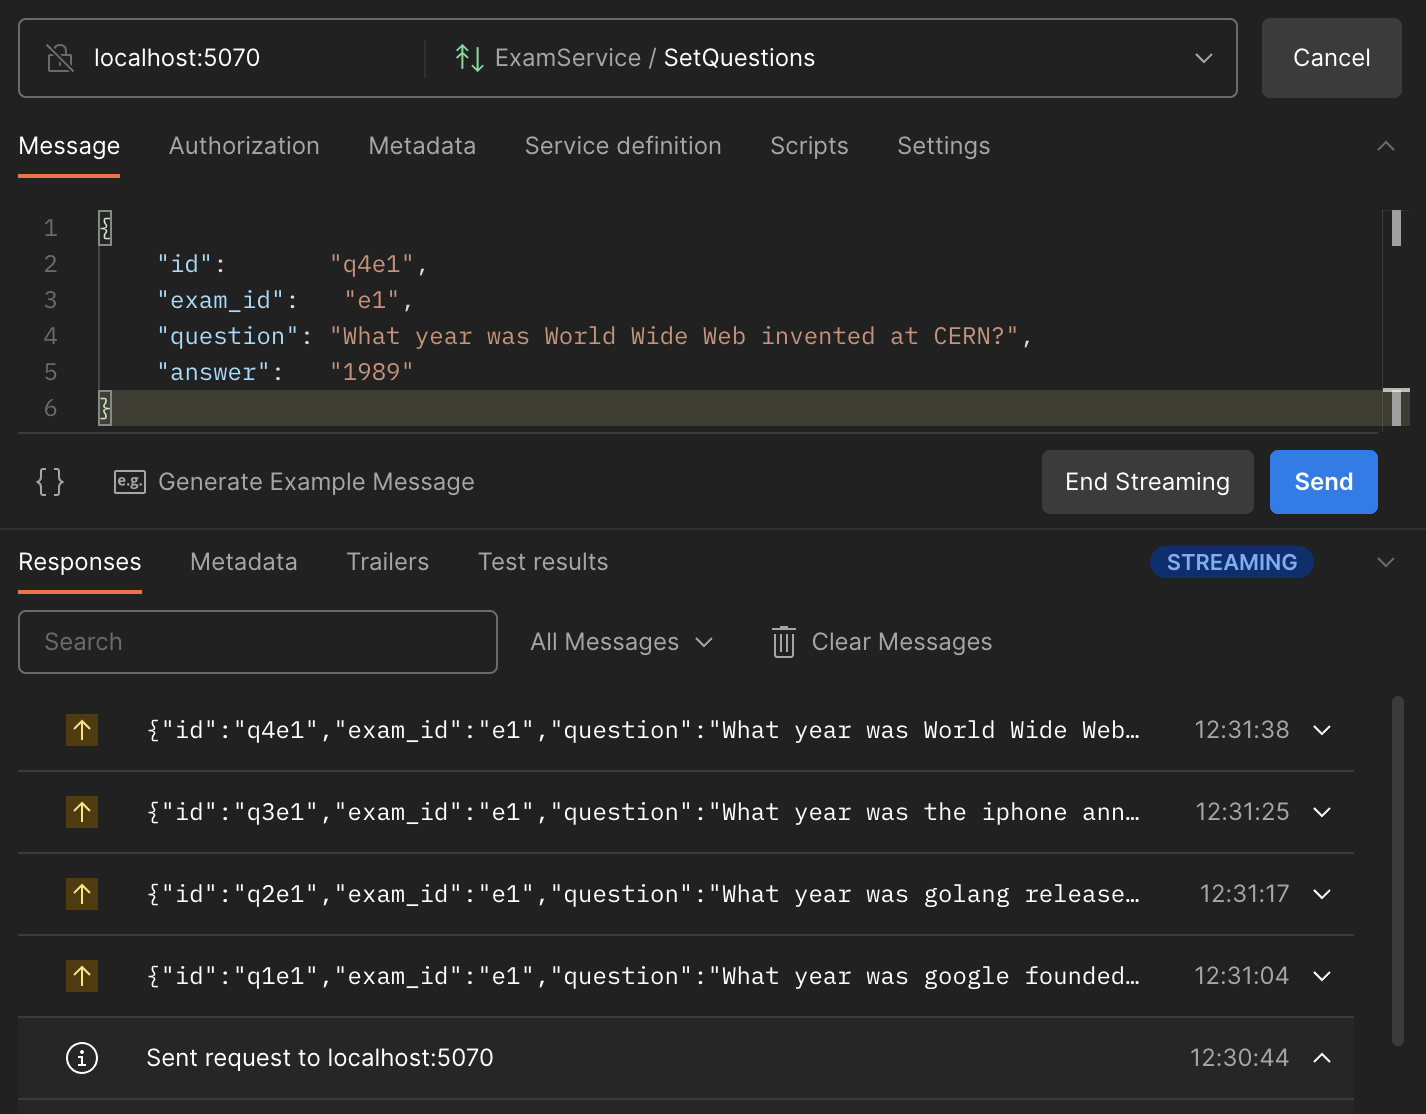
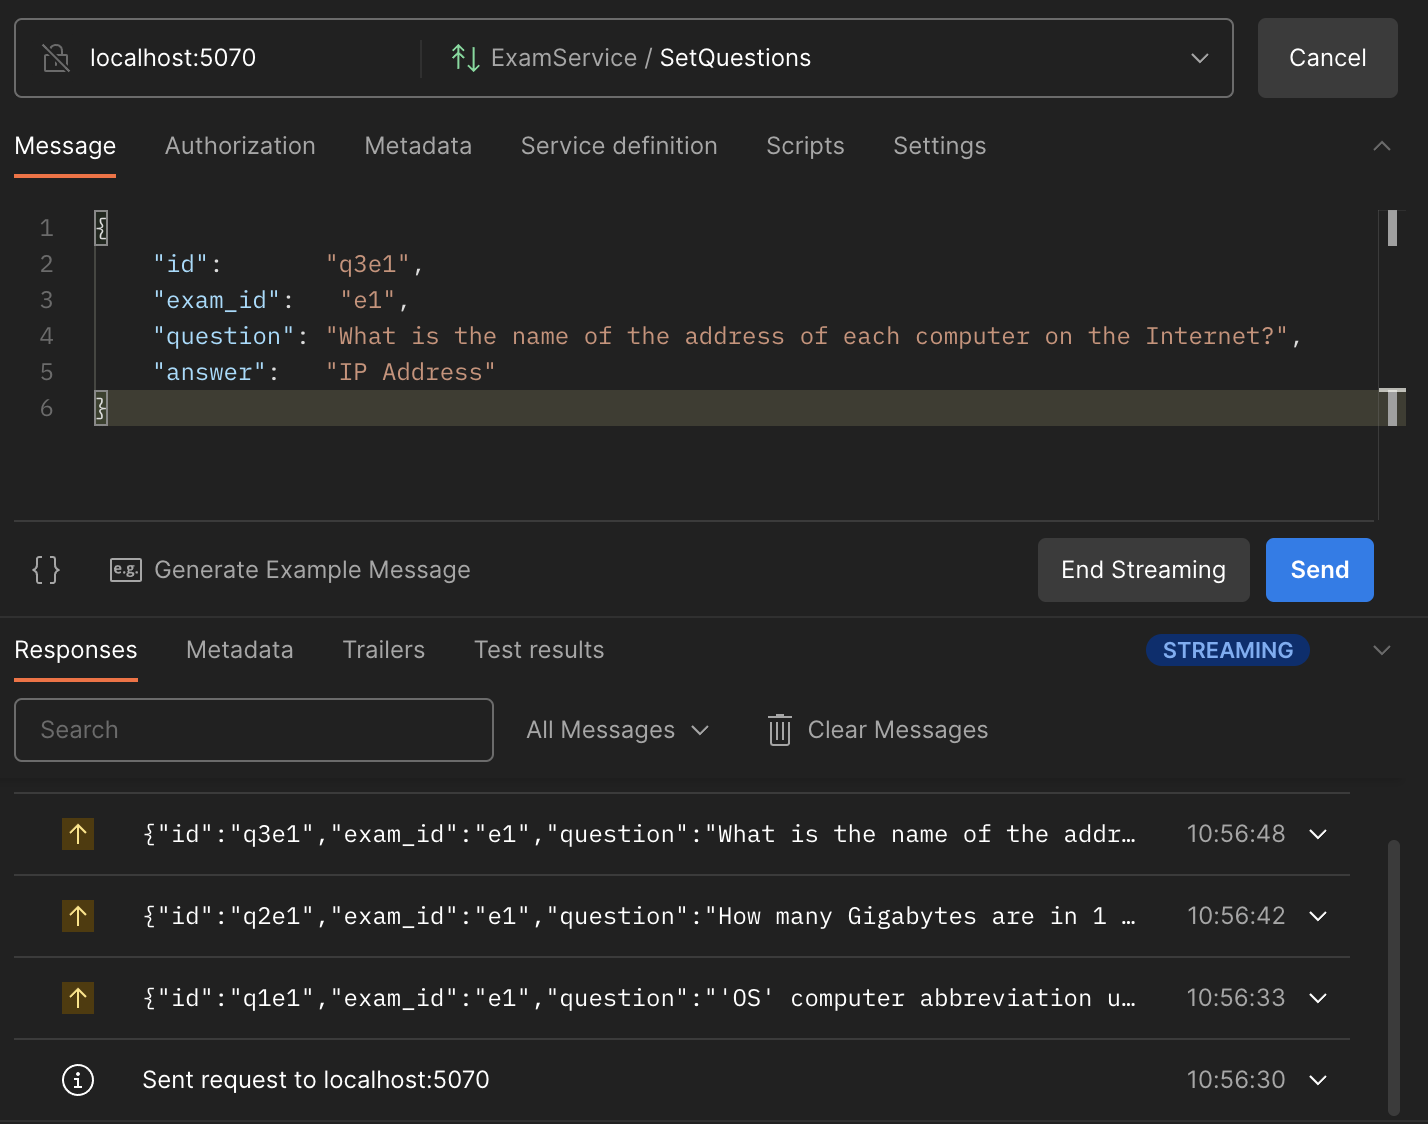
Update readme examples

diff --git a/client/exam/main.go b/client/exam/main.go
@@ -29,26 +29,26 @@ func main() {
 		{
 			Id:       "q1e1",
 			ExamId:   "e1",
-			Question: "What year was google founded?",
-			Answer:   "2005",
+			Question: "'OS' computer abbreviation usually means?",
+			Answer:   "Operating System",
 		},
 		{
 			Id:       "q2e1",
 			ExamId:   "e1",
-			Question: "What year was golang released publicly?",
-			Answer:   "2012",
+			Question: "How many Gigabytes are in 1 Terabyte??",
+			Answer:   "1024",
 		},
 		{
 			Id:       "q3e1",
 			ExamId:   "e1",
-			Question: "What year was the iphone announced?",
-			Answer:   "2007",
+			Question: "What is the name of the address of each computer on the Internet?",
+			Answer:   "IP Address",
 		},
 		{
 			Id:       "q4e1",
 			ExamId:   "e1",
-			Question: "What year was World Wide Web invented at CERN?",
-			Answer:   "1989",
+			Question: "What command can you use to count the number of lines, words, and characters in a file?",
+			Answer:   "wc",
 		},
 	}
 	SetQuestions(examServiceClient, questions)

diff --git a/client/student/main.go b/client/student/main.go
@@ -19,15 +19,15 @@ func main() {
 	studentServiceClient := studentpb.NewStudentServiceClient(clientConn)
 
 	students := []*studentpb.Student{
-		{Id: "s1", Name: "student1", Age: 1},
-		{Id: "s2", Name: "student2", Age: 2},
-		{Id: "s3", Name: "student3", Age: 3},
-		{Id: "s4", Name: "student4", Age: 4},
-		{Id: "s5", Name: "student5", Age: 5},
-		{Id: "s6", Name: "student6", Age: 6},
-		{Id: "s7", Name: "student7", Age: 7},
-		{Id: "s8", Name: "student8", Age: 8},
-		{Id: "s9", Name: "student9", Age: 9},
+		{Id: "s1", Name: "Dennis Ritchie", Age: 70},
+		{Id: "s6", Name: "Brian Kernighan", Age: 81},
+		{Id: "s2", Name: "Bjarne Stroustrup", Age: 72},
+		{Id: "s3", Name: "Linus Torvalds", Age: 53},
+		{Id: "s4", Name: "Anders Hejlsberg", Age: 62},
+		{Id: "s9", Name: "Donald Knuth", Age: 85},
+		{Id: "s8", Name: "Guido van Rossum", Age: 66},
+		{Id: "s5", Name: "Tim Berners-Lee", Age: 67},
+		{Id: "s7", Name: "Ken Thompson", Age: 79},
 	}
 
 	studentIds := make([]string, 0, len(students))

diff --git a/README.md b/README.md
@@ -12,7 +12,7 @@ The information is backed up into a PostgresDB.
 
 ## Instructions
 
-To start your postgres DB into a Docker container run:
+To start your postgres DB into a Docker container, run:
 
 ```console
   docker build ./database -t grpc-db
@@ -32,8 +32,8 @@ Then, to start the student and exam services:
   go run cmd/exam/main.go
 ```
 
-Now student and exam services can be consumed through some tool
-like postman creating gRPC request, selecting a method and if
+Now, student and exam services can be consumed through some tool
+like postman creating a gRPC request, selecting a method, and if
 it is the case, generating a message template:
 
 - To create a new student register:
